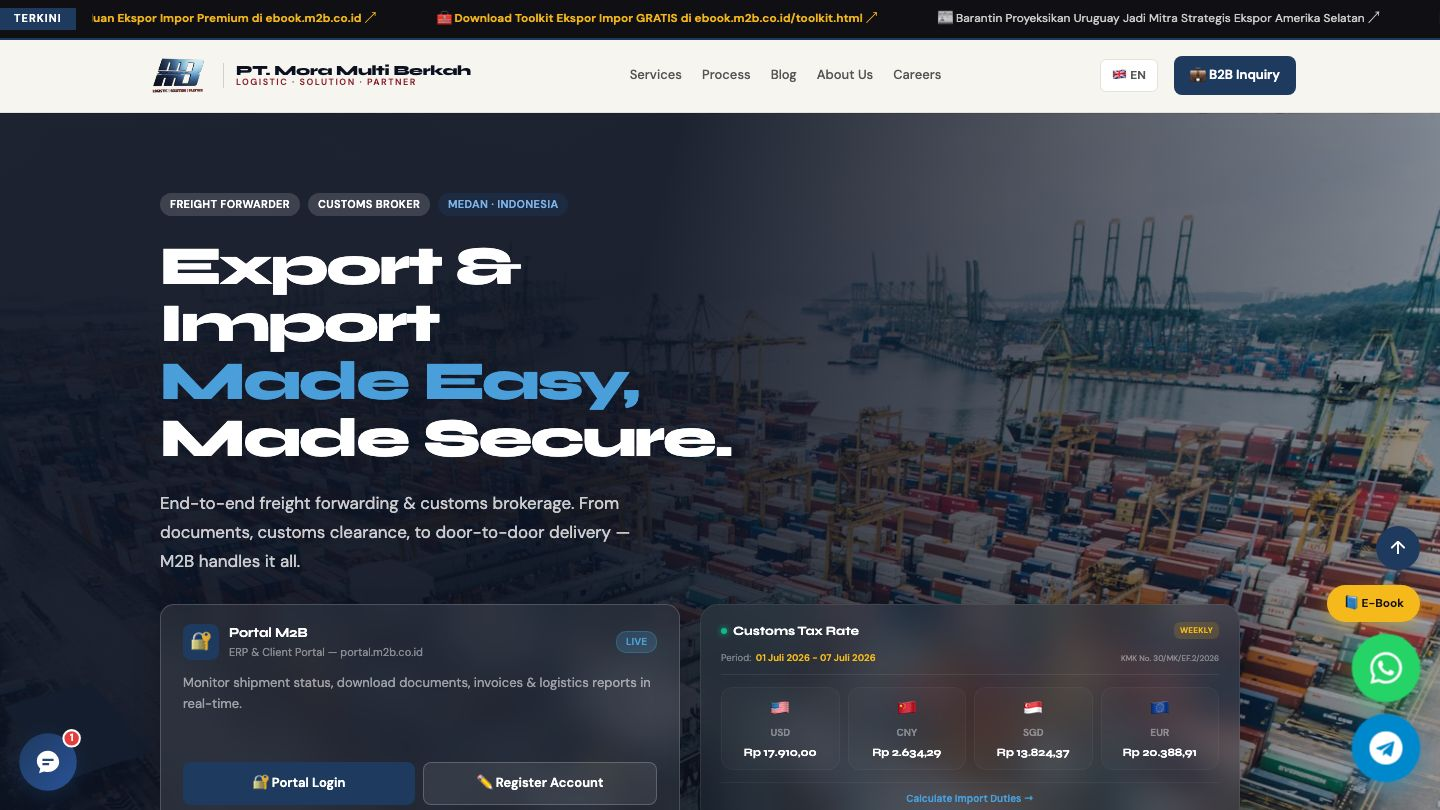
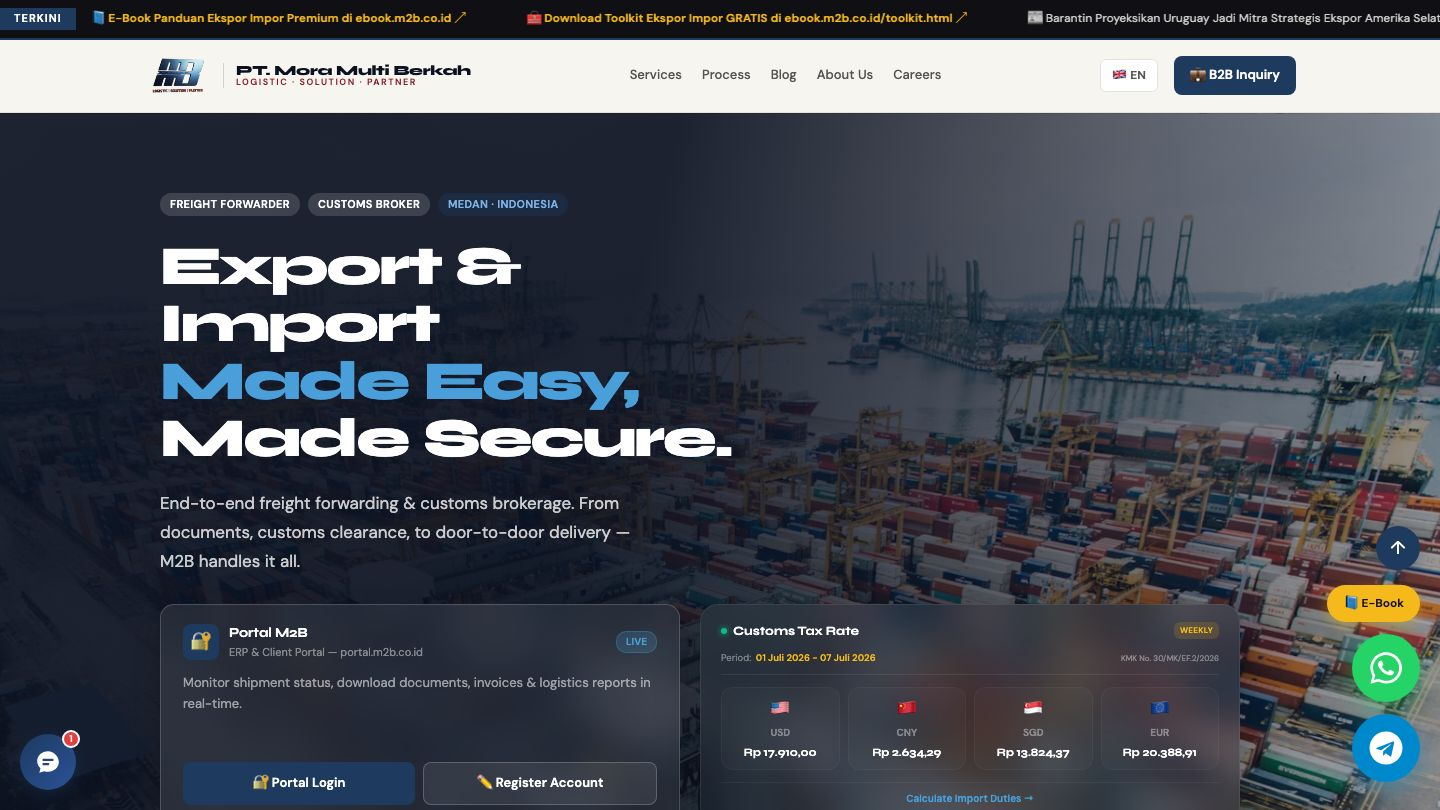
feat(portfolio): add Darul Furqon landing page to portfolio and update unit tests

Changed region(s): [[0.0625, 0.0, 1.0, 0.0309], [0.0312, 0.8951, 0.0625, 0.9259]]

diff --git a/resources/views/components/portfolio.blade.php b/resources/views/components/portfolio.blade.php
@@ -622,6 +622,70 @@
                         </div>
                     </a>
 
+                    <!-- 9: darulfurqon.my -->
+                    <a href="https://darulfurqon.my" target="_blank" rel="noopener noreferrer"
+                       data-testid="portfolio-darulfurqon"
+                       class="group block browser-frame hover:border-[#d5a23b]/30 hover:shadow-xl hover:shadow-[#d5a23b]/5 transition-all duration-300 hover:-translate-y-1 w-[320px] sm:w-[360px] shrink-0">
+                        <div class="browser-topbar">
+                            <span class="browser-dot bg-[#FF5F57]"></span>
+                            <span class="browser-dot bg-[#FFBD2E]"></span>
+                            <span class="browser-dot bg-[#28CA41]"></span>
+                            <div class="browser-url">https://darulfurqon.my</div>
+                            <span class="text-[9px] text-[#d5a23b] font-medium">LIVE</span>
+                        </div>
+                        <div class="relative overflow-hidden" style="aspect-ratio: 16/9;">
+                            <img src="{{ asset('images/portfolio/darulfurqon.jpg') }}"
+                                 alt="Maahad Tahfidz Darul Furqon"
+                                 class="absolute inset-0 w-full h-full object-cover object-top transition-transform duration-500 group-hover:scale-105 z-10"
+                                 onerror="this.style.display='none'"
+                                 loading="lazy">
+                            <div class="absolute inset-0 bg-gradient-to-br from-[#031f1a] via-[#062b23] to-[#0f5142] flex flex-col group-hover:scale-105 transition-transform duration-500 overflow-hidden">
+                                <div class="flex items-center px-3 bg-[#08382f]/60 border-b border-[#17634f]/20 shrink-0" style="height:24px">
+                                    <div class="w-12 h-2 bg-[#fff9ec]/40 rounded mr-auto"></div>
+                                    <div class="flex gap-1.5 items-center">
+                                        <div class="w-4 h-1 bg-[#fff9ec]/15 rounded"></div>
+                                        <div class="w-4 h-1 bg-[#fff9ec]/15 rounded"></div>
+                                        <div class="w-10 h-3.5 bg-[#bd8426]/30 rounded border border-[#bd8426]/30 flex items-center justify-center text-[5px] text-[#fff9ec]/80 font-bold font-mono">MY</div>
+                                    </div>
+                                </div>
+                                <div class="flex flex-col grow justify-center px-4 relative">
+                                    <div class="absolute top-2 right-4 w-12 h-12 bg-gradient-to-br from-[#bd8426]/20 to-transparent rounded-full blur-sm"></div>
+                                    <!-- Islamic Rosette or Crest Placeholder -->
+                                    <div class="absolute right-6 top-1/2 -translate-y-1/2 w-16 h-16 opacity-20 border border-[#bd8426] rounded-full flex items-center justify-center" style="transform: rotate(22.5deg); background: radial-gradient(circle, rgba(213,162,59,0.1) 0%, transparent 70%);">
+                                        <div class="w-12 h-12 border border-[#f0c45a]/60 rounded-full" style="transform: rotate(45deg);"></div>
+                                    </div>
+                                    <div class="w-16 h-2 bg-[#bd8426]/45 rounded mb-1.5"></div>
+                                    <div class="w-32 h-3.5 bg-[#fff9ec]/70 rounded mb-1"></div>
+                                    <div class="w-40 h-1.5 bg-[#fff9ec]/35 rounded mb-0.5"></div>
+                                    <div class="w-28 h-1.5 bg-[#fff9ec]/20 rounded mb-3"></div>
+                                    <div class="flex gap-2">
+                                        <div class="w-12 h-4 bg-[#bd8426] border border-[#d5a23b]/40 rounded shadow-md flex items-center justify-center"><div class="w-6 h-1 bg-[#062b23] rounded"></div></div>
+                                        <div class="w-12 h-4 bg-transparent border border-[#fff9ec]/20 rounded"></div>
+                                    </div>
+                                </div>
+                                <div class="flex items-center justify-between px-3 shrink-0 bg-[#031f1a]/60 border-t border-[#17634f]/15" style="height:22px">
+                                    <div class="w-16 h-1 bg-[#fff9ec]/20 rounded"></div>
+                                    <div class="w-6 h-2 bg-[#bd8426]/40 rounded"></div>
+                                </div>
+                            </div>
+                        </div>
+                        <div class="p-5">
+                            <div class="flex items-start justify-between mb-2">
+                                <h3 class="font-bold text-white group-hover:text-[#d5a23b] transition-colors">Darul Furqon</h3>
+                                <svg class="w-4 h-4 text-slate-600 group-hover:text-[#d5a23b] transition-colors flex-shrink-0 mt-0.5" fill="none" stroke="currentColor" viewBox="0 0 24 24"><path stroke-linecap="round" stroke-linejoin="round" stroke-width="2" d="M10 6H6a2 2 0 00-2 2v10a2 2 0 002 2h10a2 2 0 002-2v-4M14 4h6m0 0v6m0-6L10 14"/></svg>
+                            </div>
+                            <p class="text-xs text-slate-500 mb-3 font-body">
+                                <span x-show="$store.locale === 'id'">Landing page modern untuk Maahad Tahfidz Darul Furqon di Selangor, Malaysia.</span>
+                                <span x-show="$store.locale === 'en'" x-cloak>Modern landing page for Maahad Tahfidz Darul Furqon in Selangor, Malaysia.</span>
+                            </p>
+                            <div class="flex flex-wrap gap-1.5">
+                                <span class="text-xs px-2 py-0.5 rounded-full bg-[#bd8426]/10 border border-[#bd8426]/20 text-[#d5a23b]">Landing Page</span>
+                                <span class="text-xs px-2 py-0.5 rounded-full bg-emerald-500/10 border border-emerald-500/20 text-emerald-400">Islamic School</span>
+                                <span class="text-xs px-2 py-0.5 rounded-full bg-blue-500/10 border border-blue-500/20 text-blue-400">Tailwind</span>
+                            </div>
+                        </div>
+                    </a>
+
                 </div>
 
                 <!-- Set 2: Cloned Cards for Loop -->
@@ -1202,6 +1266,69 @@
                                 <span class="text-xs px-2 py-0.5 rounded-full bg-[#C9A55C]/10 border border-[#C9A55C]/20 text-[#C9A55C]">API H2H</span>
                                 <span class="text-xs px-2 py-0.5 rounded-full bg-[#0E867E]/10 border border-[#0E867E]/20 text-[#0E867E]">CEISA 4.0</span>
                                 <span class="text-xs px-2 py-0.5 rounded-full bg-blue-500/10 border border-blue-500/20 text-blue-400">Laravel</span>
+                            </div>
+                        </div>
+                    </a>
+
+                    <!-- 9: darulfurqon.my -->
+                    <a href="https://darulfurqon.my" target="_blank" rel="noopener noreferrer"
+                       class="group block browser-frame hover:border-[#d5a23b]/30 hover:shadow-xl hover:shadow-[#d5a23b]/5 transition-all duration-300 hover:-translate-y-1 w-[320px] sm:w-[360px] shrink-0">
+                        <div class="browser-topbar">
+                            <span class="browser-dot bg-[#FF5F57]"></span>
+                            <span class="browser-dot bg-[#FFBD2E]"></span>
+                            <span class="browser-dot bg-[#28CA41]"></span>
+                            <div class="browser-url">https://darulfurqon.my</div>
+                            <span class="text-[9px] text-[#d5a23b] font-medium">LIVE</span>
+                        </div>
+                        <div class="relative overflow-hidden" style="aspect-ratio: 16/9;">
+                            <img src="{{ asset('images/portfolio/darulfurqon.jpg') }}"
+                                 alt="Maahad Tahfidz Darul Furqon"
+                                 class="absolute inset-0 w-full h-full object-cover object-top transition-transform duration-500 group-hover:scale-105 z-10"
+                                 onerror="this.style.display='none'"
+                                 loading="lazy">
+                            <div class="absolute inset-0 bg-gradient-to-br from-[#031f1a] via-[#062b23] to-[#0f5142] flex flex-col group-hover:scale-105 transition-transform duration-500 overflow-hidden">
+                                <div class="flex items-center px-3 bg-[#08382f]/60 border-b border-[#17634f]/20 shrink-0" style="height:24px">
+                                    <div class="w-12 h-2 bg-[#fff9ec]/40 rounded mr-auto"></div>
+                                    <div class="flex gap-1.5 items-center">
+                                        <div class="w-4 h-1 bg-[#fff9ec]/15 rounded"></div>
+                                        <div class="w-4 h-1 bg-[#fff9ec]/15 rounded"></div>
+                                        <div class="w-10 h-3.5 bg-[#bd8426]/30 rounded border border-[#bd8426]/30 flex items-center justify-center text-[5px] text-[#fff9ec]/80 font-bold font-mono">MY</div>
+                                    </div>
+                                </div>
+                                <div class="flex flex-col grow justify-center px-4 relative">
+                                    <div class="absolute top-2 right-4 w-12 h-12 bg-gradient-to-br from-[#bd8426]/20 to-transparent rounded-full blur-sm"></div>
+                                    <!-- Islamic Rosette or Crest Placeholder -->
+                                    <div class="absolute right-6 top-1/2 -translate-y-1/2 w-16 h-16 opacity-20 border border-[#bd8426] rounded-full flex items-center justify-center" style="transform: rotate(22.5deg); background: radial-gradient(circle, rgba(213,162,59,0.1) 0%, transparent 70%);">
+                                        <div class="w-12 h-12 border border-[#f0c45a]/60 rounded-full" style="transform: rotate(45deg);"></div>
+                                    </div>
+                                    <div class="w-16 h-2 bg-[#bd8426]/45 rounded mb-1.5"></div>
+                                    <div class="w-32 h-3.5 bg-[#fff9ec]/70 rounded mb-1"></div>
+                                    <div class="w-40 h-1.5 bg-[#fff9ec]/35 rounded mb-0.5"></div>
+                                    <div class="w-28 h-1.5 bg-[#fff9ec]/20 rounded mb-3"></div>
+                                    <div class="flex gap-2">
+                                        <div class="w-12 h-4 bg-[#bd8426] border border-[#d5a23b]/40 rounded shadow-md flex items-center justify-center"><div class="w-6 h-1 bg-[#062b23] rounded"></div></div>
+                                        <div class="w-12 h-4 bg-transparent border border-[#fff9ec]/20 rounded"></div>
+                                    </div>
+                                </div>
+                                <div class="flex items-center justify-between px-3 shrink-0 bg-[#031f1a]/60 border-t border-[#17634f]/15" style="height:22px">
+                                    <div class="w-16 h-1 bg-[#fff9ec]/20 rounded"></div>
+                                    <div class="w-6 h-2 bg-[#bd8426]/40 rounded"></div>
+                                </div>
+                            </div>
+                        </div>
+                        <div class="p-5">
+                            <div class="flex items-start justify-between mb-2">
+                                <h3 class="font-bold text-white group-hover:text-[#d5a23b] transition-colors">Darul Furqon</h3>
+                                <svg class="w-4 h-4 text-slate-600 group-hover:text-[#d5a23b] transition-colors flex-shrink-0 mt-0.5" fill="none" stroke="currentColor" viewBox="0 0 24 24"><path stroke-linecap="round" stroke-linejoin="round" stroke-width="2" d="M10 6H6a2 2 0 00-2 2v10a2 2 0 002 2h10a2 2 0 002-2v-4M14 4h6m0 0v6m0-6L10 14"/></svg>
+                            </div>
+                            <p class="text-xs text-slate-500 mb-3 font-body">
+                                <span x-show="$store.locale === 'id'">Landing page modern untuk Maahad Tahfidz Darul Furqon di Selangor, Malaysia.</span>
+                                <span x-show="$store.locale === 'en'" x-cloak>Modern landing page for Maahad Tahfidz Darul Furqon in Selangor, Malaysia.</span>
+                            </p>
+                            <div class="flex flex-wrap gap-1.5">
+                                <span class="text-xs px-2 py-0.5 rounded-full bg-[#bd8426]/10 border border-[#bd8426]/20 text-[#d5a23b]">Landing Page</span>
+                                <span class="text-xs px-2 py-0.5 rounded-full bg-emerald-500/10 border border-emerald-500/20 text-emerald-400">Islamic School</span>
+                                <span class="text-xs px-2 py-0.5 rounded-full bg-blue-500/10 border border-blue-500/20 text-blue-400">Tailwind</span>
                             </div>
                         </div>
                     </a>

diff --git a/backend/tests/test_morabangun_backend.py b/backend/tests/test_morabangun_backend.py
@@ -59,7 +59,7 @@ class TestLanding:
         for tid in [
             "portfolio-m2b", "portfolio-portal-m2b", "portfolio-dira",
             "portfolio-indoplas", "portfolio-gma", "portfolio-ladaik",
-            "portfolio-indoessentialoil", "portfolio-ceisa",
+            "portfolio-indoessentialoil", "portfolio-ceisa", "portfolio-darulfurqon",
         ]:
             assert f'data-testid="{tid}"' in html, f"missing data-testid={tid}"
 
@@ -86,7 +86,7 @@ class TestLanding:
         _s, html = session_with_csrf
         for dom in ["m2b.co.id", "portal.m2b.co.id", "dira.co.id",
                     "indoplas.co.id", "gma-world.id", "ladaik.store",
-                    "indoessentialoil.com", "ceisa.m2b.co.id"]:
+                    "indoessentialoil.com", "ceisa.m2b.co.id", "darulfurqon.my"]:
             assert dom in html, f"portfolio link {dom} not present"
 
 
